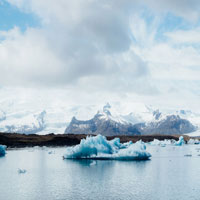
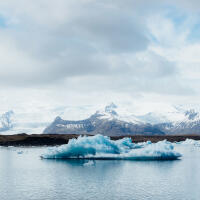
New, unskewed thumbnails.  Final edits.

diff --git a/css/styles.css b/css/styles.css
@@ -318,28 +318,6 @@ a {
   text-decoration: none; }
 
 /* ============================================= */
-/*              Forms                            */
-/* ============================================= */
-.form {
-  flex-basis: 100%; }
-
-.input {
-  display: block;
-  width: 94%;
-  margin: 10px auto 0;
-  border: none;
-  padding: 10px;
-  border-bottom: 5px solid #58e1c1; }
-
-.hidden {
-  position: absolute;
-  left: -10000px;
-  top: auto;
-  width: 1px;
-  height: 1px;
-  overflow: hidden; }
-
-/* ============================================= */
 /*              Grid System                      */
 /* ============================================= */
 .grid {

diff --git a/js/app.js b/js/app.js
@@ -3,7 +3,7 @@ baguetteBox.run('.gallery');
 
 function myFunction() {
   // Declare variables
-  console.log('myFunction engaged')
+  console.log('myFunction engaged');
   var input, filter, parent, child, a, i, txtValue;
   input = document.getElementById('searchInput');
   filter = input.value.toLowerCase();

diff --git a/index.html b/index.html
@@ -8,7 +8,6 @@
   <link rel="stylesheet" href="css/styles.css">
   <link rel="stylesheet" href="css/baguetteBox.css">
   <script src="js/baguetteBox.js"></script>
-  <script src="js/searchFilter.js"></script>
   <script src="js/app.js" defer></script>
 </head>
 
